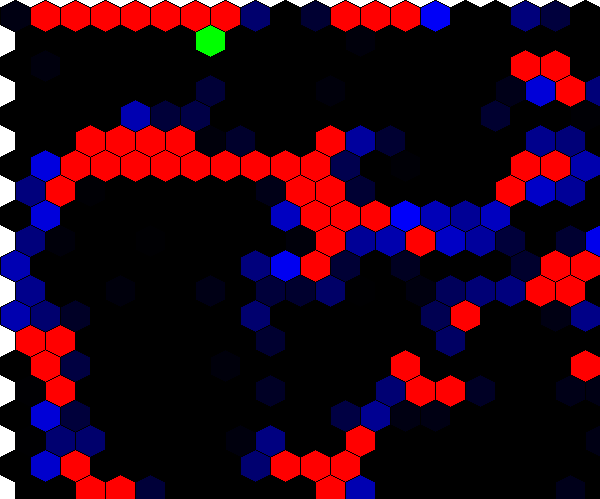
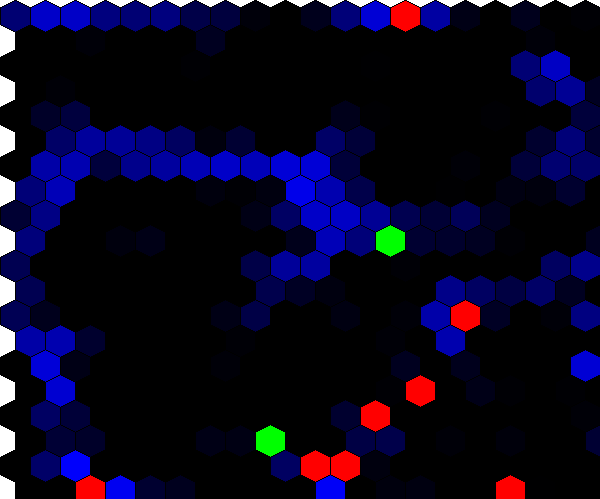
Experimental Updates

diff --git a/hexworld/mcts.py b/hexworld/mcts.py
@@ -97,12 +97,32 @@ class MCTS:
         #         reward += R_DRY_NO_EVAC*hex.population
         return reward
     
+    def calculate_evac_reward(self, state: World, action):
+        reward = 0
+        for hex in state.hexes:
+            x, y = hex.x, hex.y
+            # cost for evacuating a hex
+            if (x,y) in action:
+                reward += R_EVAC*hex.population
+        return reward
+    
+    def calculate_flood_reward(self, state):
+        reward = 0
+        for hex in state.hexes:
+            x, y = hex.x, hex.y
+            # reward if hex flooded and already evacuated
+            if hex.flood_flag and hex.population==0:
+                reward += R_FLOOD_EVAC
+            # reward if hex flooded and not evacuated
+            if hex.flood_flag and hex.population>0:
+                reward += R_FLOOD_NO_EVAC*hex.population
+        return reward
     
     def random_rollout(self, state: World, steps=ROLL_STEPS):
         # create a copy of our state after taking a current action
         rollout_state = deepcopy(state)
         # rollout for a certain number of states
-        utility = 0
+        evac_reward = 0
         for i in range(steps):
             # select random action (i.e. select some number of random hexes to evacuate)
             action_space = self.narrow_action_space(rollout_state)
@@ -111,10 +131,14 @@ class MCTS:
             else:
                 evac_hexes = random.choices(action_space, k=MAX_EVAC_CELLS)
             # calculate reward for this action step and add to the total utility            
-            utility += self.calculate_reward(rollout_state, evac_hexes)
+            evac_reward += self.calculate_evac_reward(rollout_state, evac_hexes)
             # get the next state and repeat
             rollout_state = self.get_next_state(rollout_state, evac_hexes)
-        return utility
+            
+        flood_reward = self.calculate_flood_reward(rollout_state)
+        total_reward = evac_reward + flood_reward
+
+        return total_reward
 
     def get_branched_actions(self, state, depth):
         # Get action space
@@ -290,15 +314,15 @@ def mcts_run(state: World):
             obj.expand_state(obj.root)
         else:
             action = simulate_dpw(obj,t)
-        net_reward += obj.calculate_reward(state, action)
+        net_reward += obj.calculate_evac_reward(state, action)
         next_state = obj.get_next_state(state, action)
         state = next_state
         # print([child.name for child in obj.root.children[0].children])
         # obj.visualize()
         obj = MCTS(state)
         t += 1
+    net_reward += obj.calculate_flood_reward(state)
     return net_reward, state.death_toll()
-    
 
 
 def RandAct(state: World, t):
@@ -323,10 +347,12 @@ def RandPolicy(state: World):
     while t < SIM_TIME:
         print("Outer loop: ",t)
         action = RandAct(state, SIM_TIME - t)
+        print("action: ", action)
+        net_reward += obj.calculate_evac_reward(state, action)
         next_state = obj.get_next_state(state, action)
-        net_reward += obj.calculate_reward(state, action)
         state = next_state
         t += 1
+    net_reward += obj.calculate_flood_reward(state)
     # return net reward and total death toll
     return net_reward, state.death_toll()
 
@@ -337,10 +363,10 @@ def main():
     world = World(20, 20)
     # Create a MCTS object 
     if MCTS_RUN:
-        reward,dead = mcts_run(world)
+        reward, dead = mcts_run(world)
     else:
-        reward,dead = RandPolicy(world)
-    print(reward," ",dead)
+        reward, dead = RandPolicy(world)
+    print(reward, dead)
     
 
 if __name__ == "__main__":

diff --git a/hexworld/constants.py b/hexworld/constants.py
@@ -13,7 +13,7 @@ HEX_RECT_HEIGHT = SIDE_LENGTH + 2 * HEX_HEIGHT
 HEX_RECT_WIDTH = 2 * HEX_RADIUS
 
 ## Any other constants useful for simulation
-FLOOD_LEVEL = 2
+FLOOD_LEVEL = 5
 SIM_TIME = 20
 PRECIP_RATE = 0.5 # 6 in/hr = max recorded rainfall rate from Claudette
 MAX_DRAIN_RATE = 1.5 # 
@@ -29,10 +29,9 @@ MAX_EVAC_CELLS = 3 # maximum number of cells that can be evacuated
 DISCOUNT = 0.9
 R_FLOOD_NO_EVAC = -10e-1 # reward for flooding per population
 # R_DRY_NO_EVAC = 1e-1 # reward for evacuating per population
-R_FLOOD_EVAC = 5e-1 # reward for surviving per population
+R_FLOOD_EVAC = 7e-1 # reward for surviving per population
 # R_DRY_EVAC = -2e-1 # reward for evacuating per population
-R_FLOOD = 10e-1
-R_EVAC = -2e-1
+R_EVAC = -0.1e-1
 MCTS_RUN = True # boolean to alter run mode as MCTS or Random
 
 ## MCTS-DPW Constants
@@ -40,7 +39,7 @@ MAX_DEPTH = 5 # maximum depth of tree defined by levels of actions
 NUM_SIMS = 200 # cumulative number of simulations
 K = 2 # DPW coefficient
 ALPHA = 0.1 # DPW progressive widening parameter
-C = 0.05 # exploration constant
+C = 5 # exploration constant
 MAX_ACTION_SPACE = 5 # maximum number of actions to consider at each node
 MAX_STATE_SPACE = 5 # maximum number of states to consider at each node
 ROLL_STEPS = 10 # number of steps to roll out for each simulation

diff --git a/hexworld/draw.py b/hexworld/draw.py
@@ -34,7 +34,7 @@ def color_func_elevation(h):
 def color_func_water(h):
     min_water = 0
     max_water = FLOOD_LEVEL
-    if h.is_flooded:
+    if h.flood_flag:
         return (255,0,0)
 
     if h.drain_status is False:
